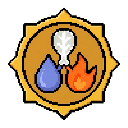
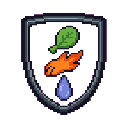
Fix starter-badge leaf transparency and add per-region frame distinction (#831)
The five starter badges rendered on a green chroma-key screen, so the badges'
own green leaf artwork was punched out by the background-removal step
itself. Render these five on magenta instead and key on magenta
(chromakey.py already supported this), giving each a genuinely green,
opaque leaf. Regenerated Sinnoh too (its leaf happened to survive the green
key) so all five come from one consistent process.

Also strengthen the chroma-key alpha-sanity guard: it previously only
checked that the alpha minimum was below 255, which a partially-keyed
background (a visible colour tint rather than true transparency) could
still pass. It now also requires the four corners and a meaningful
fraction of the image to be near-zero alpha. This caught a real
regeneration failure during this fix (the Galar shield render came back on
a white card instead of magenta) before it could ship.

Finally, differentiate the five starter badges, which previously all read
as "gold circle + leaf/flame/droplet" and were hard to tell apart at badge
size: each region now gets a distinct frame silhouette and metal tone
(Kanto: plain gold ring, Johto: silver gear/cog, Hoenn: bronze octagon,
Sinnoh: copper sunburst, Galar: dark-iron shield) and a distinct internal
icon arrangement, while staying within the same 8-bit pixel-art family as
the other 12 approved badges (untouched).

Badge filenames and lib/badges/catalog.ts artwork fields are unchanged;
this is an asset swap plus a pipeline fix.

diff --git a/tools/art/chromakey.py b/tools/art/chromakey.py
@@ -42,6 +42,15 @@ NAMED_KEYS: dict[str, tuple[int, int, int]] = {
     "magenta": (255, 0, 255),  # fallback when the subject contains green
 }
 
+# Per-key default colour-distance threshold. The API does not reliably render a pure, saturated
+# magenta backdrop (it tends to come back as a muted ~(205, 30, 183) rather than (255, 0, 255)),
+# which sits further from the nominal magenta key than a typical green render sits from the
+# nominal green key. Using the green default (0.18) on a magenta render leaves the background at
+# a partial alpha (a visible magenta tint) instead of fully transparent - found while fixing #831's
+# starter-badge leaves. Verified against the badge set's own artwork (leaf/flame/water-droplet
+# colours) staying well outside this band, so raising it does not eat legitimate subject pixels.
+DEFAULT_THRESHOLD: dict[str, float] = {"green": 0.18, "magenta": 0.24}
+
 
 def _parse_key(key: str) -> tuple[int, int, int]:
     """Resolve a key name ('green'/'magenta') or a 6-hex 'RRGGBB' to an (r, g, b) tuple."""
@@ -60,11 +69,26 @@ def _alpha_min(img: Image.Image) -> int:
     return int(np.asarray(img)[..., 3].min())
 
 
-def assert_has_transparency(img: Image.Image, *, source: str = "output") -> None:
-    """Raise if `img` has no transparent pixels (the white/green-box guard).
+_CORNER_ALPHA_MAX = 10  # a genuinely-keyed corner should be all but fully transparent
+_MIN_TRANSPARENT_FRACTION = 0.02  # at least 2% of the image should be true background (alpha<=CORNER_ALPHA_MAX)
 
-    A correct chroma-key MUST punch some pixels out, so an alpha minimum of 255 means the key did
-    nothing and the subject would render on an opaque (green) box. Fail loudly rather than ship it.
+
+def assert_has_transparency(img: Image.Image, *, source: str = "output") -> None:
+    """Raise if `img` doesn't have a genuinely-transparent background (the white/green-box guard).
+
+    Two checks, because a single alpha-minimum check missed a real regression (#831 starter-badge
+    magenta background left the whole background at a partial ~90 alpha rather than 0 - the key
+    matched *some* pixels but not fully, so `alpha.min() < 255` alone passed while the badge still
+    shipped with a visible tinted background):
+
+    1. Alpha minimum below full-opaque - a correct chroma-key MUST punch some pixels fully out, so
+       an alpha minimum of 255 means the key did nothing.
+    2. The four corners (background territory on every centred-medallion badge in this set) are
+       near-zero alpha, AND at least a small fraction of the whole image is near-zero alpha - not
+       just "the darkest pixel happens to be under 255", which a wrongly-thresholded key still
+       satisfies.
+
+    Fail loudly rather than ship a translucent-background badge.
     """
     amin = _alpha_min(img)
     if amin >= 255:
@@ -72,14 +96,36 @@ def assert_has_transparency(img: Image.Image, *, source: str = "output") -> None
             f"{source} has a fully-opaque alpha channel (alpha min == {amin}); chroma-key produced "
             "NO transparency. Check the --key / --threshold for this image.")
 
+    if img.mode != "RGBA":
+        return
+    arr = np.asarray(img)
+    alpha = arr[..., 3]
+    h, w = alpha.shape
+    corners = [alpha[0, 0], alpha[0, w - 1], alpha[h - 1, 0], alpha[h - 1, w - 1]]
+    bad_corners = [int(a) for a in corners if a > _CORNER_ALPHA_MAX]
+    if bad_corners:
+        raise ValueError(
+            f"{source} has non-transparent corner pixel(s) (alpha={bad_corners}, want <= "
+            f"{_CORNER_ALPHA_MAX}); the background was only partially keyed out (a visible tint "
+            "would ship). Check the --key / --threshold for this image.")
+
+    transparent_fraction = float((alpha <= _CORNER_ALPHA_MAX).mean())
+    if transparent_fraction < _MIN_TRANSPARENT_FRACTION:
+        raise ValueError(
+            f"{source} has only {transparent_fraction:.1%} near-zero-alpha background pixels "
+            f"(want >= {_MIN_TRANSPARENT_FRACTION:.0%}); the chroma-key barely punched through. "
+            "Check the --key / --threshold for this image.")
+
 
 def chroma_key(in_path: str, out_path: str, *, key: str = "green",
-               threshold: float = 0.18, softness: float = 0.08,
+               threshold: float | None = None, softness: float = 0.08,
                despill: float = 1.0, erode: int = 1, feather: float = 1.0,
                resize: int | None = None, sanity_check: bool = True) -> str:
     """Lift the subject off a chroma screen and write a transparent PNG. Returns out_path.
 
     threshold: colour-distance (0-1) at/under which a pixel is fully keyed-out (transparent).
+               Defaults to `DEFAULT_THRESHOLD[key]` when not given (0.18 for green, 0.24 for
+               magenta - the API's magenta renders are less saturated than its greens).
     softness:  distance band above the threshold over which alpha ramps 0->255 (the soft edge).
     despill:   0-1 strength of pulling the screen channel back on kept pixels (rim de-greening).
     erode:     pixels of alpha erosion to bite off the last screen fringe (0 to disable).
@@ -87,6 +133,8 @@ def chroma_key(in_path: str, out_path: str, *, key: str = "green",
     resize:    if set, the final square size in px (NEAREST resampling, keeps pixel-art crisp).
     """
     key_rgb = np.array(_parse_key(key), dtype=np.float32)
+    if threshold is None:
+        threshold = DEFAULT_THRESHOLD.get(key.strip().lower(), 0.18)
     src = Image.open(in_path).convert("RGBA")
     arr = np.asarray(src, dtype=np.float32)
     rgb = arr[..., :3]
@@ -147,7 +195,8 @@ def main(argv: list[str] | None = None) -> int:
     ap.add_argument("in_path")
     ap.add_argument("out_path")
     ap.add_argument("--key", default="green", help="green | magenta | RRGGBB hex")
-    ap.add_argument("--threshold", type=float, default=0.18)
+    ap.add_argument("--threshold", type=float, default=None,
+                     help="colour-distance threshold; defaults to DEFAULT_THRESHOLD[key] (0.18 green, 0.24 magenta)")
     ap.add_argument("--softness", type=float, default=0.08)
     ap.add_argument("--despill", type=float, default=1.0)
     ap.add_argument("--erode", type=int, default=1)

diff --git a/tools/art/generate.py b/tools/art/generate.py
@@ -37,20 +37,34 @@ KEY_PATH = os.environ.get("POKE_MEMORY_GEMINI_API_KEY_PATH", DEFAULT_KEY_PATH)
 DEFAULT_MODEL = "gemini-3-pro-image"  # Nano Banana Pro
 
 # Prepended to every prompt so the full 17-badge set shares one readable, consistent pixel-art
-# look. Kept in lockstep with README.md's style notes.
-STYLE_PREAMBLE = (
-    "Poke Memory gym-badge icon, true 8-bit / 16-bit retro pixel-art style: hard pixel edges, no "
-    "anti-aliasing, no gradients, limited flat colour palette per icon, strong black or dark "
-    "outline around every shape so the icon stays readable at small sizes (it renders as small as "
-    "40x40 CSS pixels in the app). Compose as a single chunky badge/medallion emblem, centred, "
-    "filling most of the frame, in the classic circular-pin gym-badge silhouette (a simple "
-    "geometric medallion, star-points or gem-cut edge, NOT a photo-real object). Palette: warm "
-    "saturated jewel tones (this badge's own theme colour) with a metallic gold or silver rim "
-    "highlight, consistent line weight across the whole set. Absolutely NO text, letters or "
-    "numbers in the image. Background is a solid flat chroma-key green (#00B140), completely "
-    "uniform, no shading, no texture, no vignette, filling every pixel outside the badge shape "
-    "edge to edge, so the background can be keyed out to transparency afterwards. "
-)
+# look. Kept in lockstep with README.md's style notes. `style_preamble(key)` parameterises only
+# the chroma-screen colour so a badge whose own artwork contains green (e.g. a leaf) can be
+# rendered on magenta instead, without the green screen eating the artwork during chroma-keying.
+_SCREEN_HEX = {"green": "#00B140", "magenta": "#FF00FF"}
+
+
+def style_preamble(key: str = "green") -> str:
+    screen_hex = _SCREEN_HEX[key]
+    return (
+        "Poke Memory gym-badge icon, true 8-bit / 16-bit retro pixel-art style: hard pixel edges, no "
+        "anti-aliasing, no gradients, limited flat colour palette per icon, strong black or dark "
+        "outline around every shape so the icon stays readable at small sizes (it renders as small as "
+        "40x40 CSS pixels in the app). Compose as a single chunky badge/medallion emblem, centred, "
+        "filling most of the frame, in the classic circular-pin gym-badge silhouette (a simple "
+        "geometric medallion, star-points or gem-cut edge, NOT a photo-real object), unless the "
+        "prompt below explicitly specifies a different medallion silhouette, in which case follow "
+        "that instead. Palette: warm saturated jewel tones (this badge's own theme colour) with a "
+        "metallic rim highlight (gold, silver, bronze, copper or dark iron as specified below), "
+        "consistent line weight across the whole set. Absolutely NO text, letters or numbers in the "
+        f"image. Background is a solid flat chroma-key {key} ({screen_hex}), completely uniform, no "
+        "shading, no texture, no vignette, filling every pixel outside the badge shape edge to edge, "
+        "so the background can be keyed out to transparency afterwards. "
+    )
+
+
+# Backwards-compatible module-level constant (green screen), used by anything that imports it
+# directly rather than calling style_preamble().
+STYLE_PREAMBLE = style_preamble("green")
 
 
 def _api_key() -> str:
@@ -66,20 +80,22 @@ def _api_key() -> str:
 
 def generate(prompt: str, out_path: str, refs: list[str] | None = None,
              model: str = DEFAULT_MODEL, with_style: bool = True,
-             aspect: str | None = None, size: str | None = None) -> str:
+             aspect: str | None = None, size: str | None = None, key: str = "green") -> str:
     """Generate one image to out_path. `refs` are reference/edit input images (paths). Returns out_path.
 
     `aspect` sets the output aspect ratio ("1:1", "16:9", "9:16", "4:3", "3:4", "21:9"). `size` sets
     the resolution ("1K", "2K", "4K"). Badge art defaults to a 1:1 square medallion; without an
     explicit aspect the API returns a 1:1 1024px square by default anyway, so badges rarely need
-    to pass either flag.
+    to pass either flag. `key` picks the chroma-screen colour ("green" or "magenta") baked into
+    the style preamble - use "magenta" for any badge whose own artwork is green (e.g. a leaf),
+    since a green screen would eat green artwork during chroma-keying.
     """
     parts: list[dict] = []
     for ref in refs or []:
         mime = mimetypes.guess_type(ref)[0] or "image/png"
         parts.append({"inlineData": {"mimeType": mime,
                                      "data": base64.b64encode(open(ref, "rb").read()).decode()}})
-    parts.append({"text": (STYLE_PREAMBLE + prompt) if with_style else prompt})
+    parts.append({"text": (style_preamble(key) + prompt) if with_style else prompt})
 
     gen_config: dict = {"responseModalities": ["IMAGE"]}
     image_config: dict = {}
@@ -118,9 +134,10 @@ def main(argv: list[str] | None = None) -> int:
     ap.add_argument("--no-style", action="store_true", help="do not prepend the badge style preamble")
     ap.add_argument("--aspect", help='output aspect ratio: 1:1, 16:9, 9:16, 4:3, 3:4, 21:9 (default 1:1)')
     ap.add_argument("--size", help='output resolution: 1K, 2K, 4K (default 1K)')
+    ap.add_argument("--key", default="green", help='chroma-screen colour to render on: green | magenta')
     args = ap.parse_args(argv)
     path = generate(args.prompt, args.out, refs=args.ref, model=args.model,
-                    with_style=not args.no_style, aspect=args.aspect, size=args.size)
+                    with_style=not args.no_style, aspect=args.aspect, size=args.size, key=args.key)
     print("wrote", path)
     return 0
 

diff --git a/tools/art/batch.py b/tools/art/batch.py
@@ -48,9 +48,10 @@ def run(manifest_path: str, out_dir: str = DEFAULT_OUT_DIR, only: set[str] | Non
         if dry_run:
             print(f"[dry-run] {asset_id}: generate -> {raw_path}, chroma-key -> {out_path}")
             continue
-        print(f"generating {asset_id} ...")
-        generate(asset["prompt"], raw_path, aspect="1:1")
-        chroma_key(raw_path, out_path, resize=resize)
+        key = asset.get("key", "green")
+        print(f"generating {asset_id} (key={key}) ...")
+        generate(asset["prompt"], raw_path, aspect="1:1", key=key)
+        chroma_key(raw_path, out_path, resize=resize, key=key)
         print(f"wrote {out_path}")
 
 
